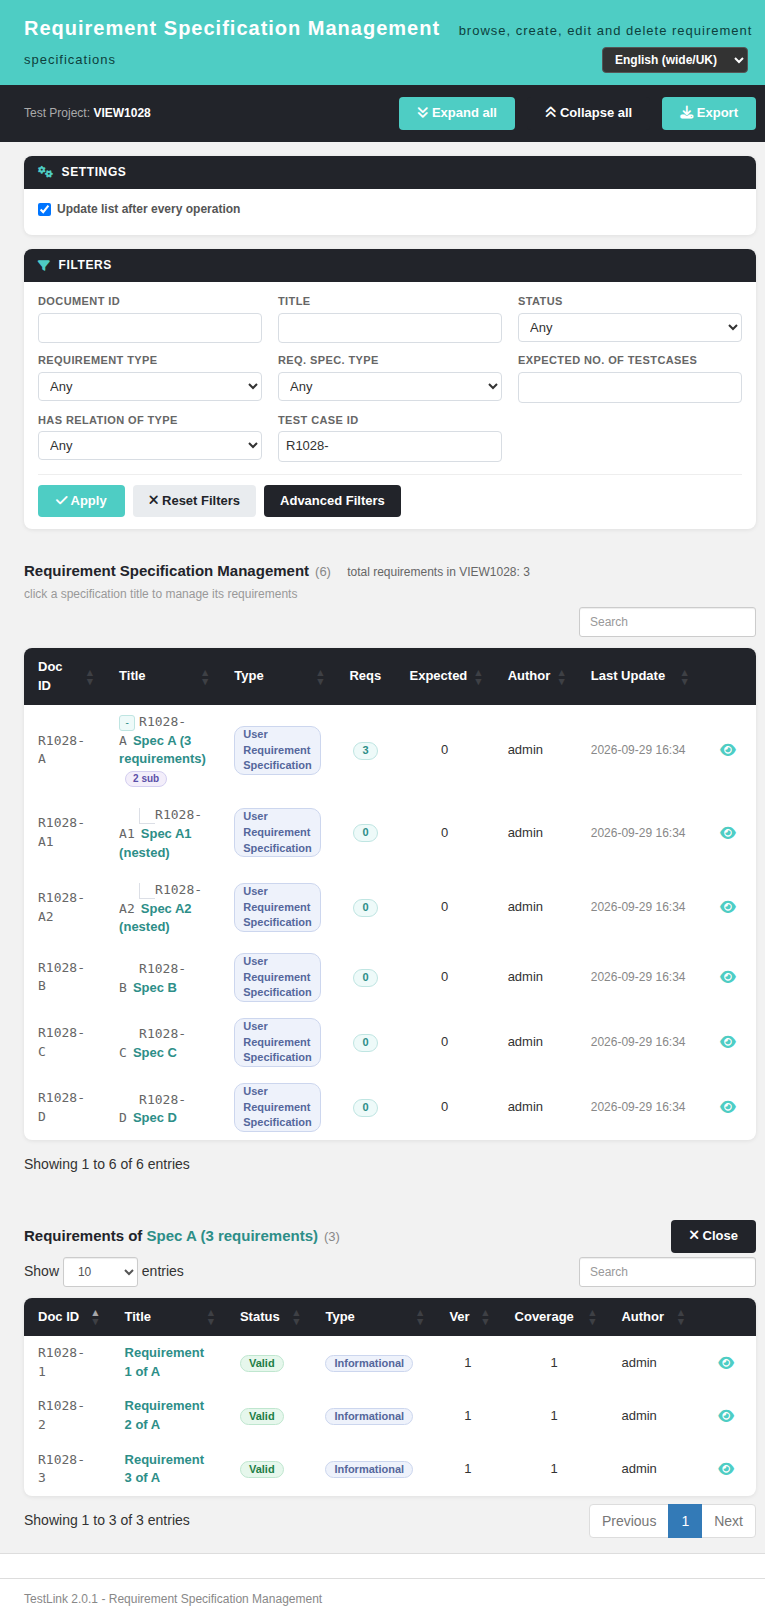
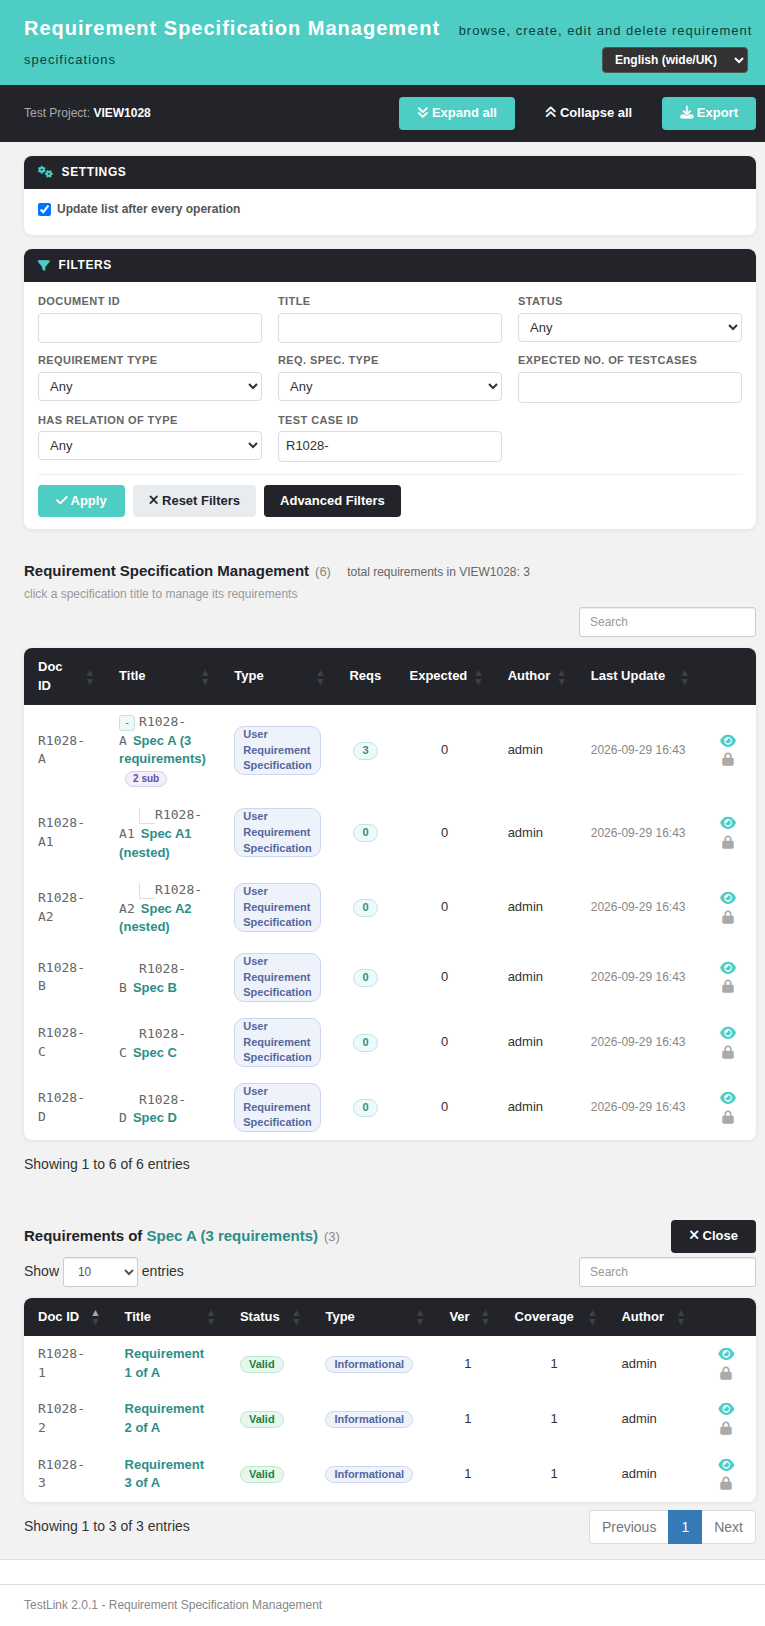
fix(#1028): code-review pass - keep the read-only signal, kill the hover underline, commit suite 1028
- .view-btn: text-decoration:none (Bootstrap underlines a:focus/a:hover)
- new readOnlyMark(): a fa-lock + rs.viewOnly marker next to the eye when
  canView && !canManage, so a plain viewer keeps the read-only cue the old
  decorative fa-eye gave
- docs/wiki/CHANGELOG: corrected file:line ranges, documented that the
  fa-eye-slash branch is defensive (options itself needs canView())
- test: suite 1028 committed (18 cases, all PASS)

Refs #1028

diff --git a/gui/templates/requirements/reqSpecMgmt.html b/gui/templates/requirements/reqSpecMgmt.html
@@ -56,9 +56,10 @@ table.dataTable tbody tr.spec-child-row td:first-child { border-left: 3px solid 
 .muted { color: #aaa; }
 .updated-cell { color: #888; font-size: 12px; white-space: nowrap; }
 .edit-btn { background: none; border: none; color: #2d8e88; cursor: pointer; font-size: 14px; padding: 2px 6px; }
-/* Refs #1028 - deep link to the full spec/requirement detail screen. */
-.view-btn { background: none; border: none; color: #4ECDC4; cursor: pointer; font-size: 14px; padding: 2px 6px; }
-.view-btn:hover { color: #2d8e88; }
+/* Refs #1028 - deep link to the full spec/requirement detail screen.
+   text-decoration:none keeps Bootstrap's global a:hover underline off the icon. */
+.view-btn { background: none; border: none; color: #4ECDC4; cursor: pointer; font-size: 14px; padding: 2px 6px; text-decoration: none; }
+.view-btn:hover { color: #2d8e88; text-decoration: none; }
 .del-btn { background: none; border: none; color: #e6605e; cursor: pointer; font-size: 15px; padding: 2px 6px; }
 .del-btn:hover { color: #c53f3d; }
 .empty { background: #fff; border-radius: 8px; padding: 26px; text-align: center; color: #888; font-size: 13px; box-shadow: 0 1px 4px rgba(0,0,0,.08); }
@@ -844,10 +845,17 @@ function renderSpecs(items) {
         '" onclick="confirmDeleteSpec(' + s.id + ')">' +
         '<i class="fas fa-minus-circle"></i></button>';
     } else if (!canView) {
-      // No view right either: keep the legacy "read only" marker.
+      // No view right either: keep the legacy "read only" marker. (Defensive -
+      // ?action=options itself needs canView(), so this branch is not reachable
+      // while rows are rendered; it exists so a future rights combination that
+      // renders rows without rights.view can never show a dead link.)
       action = '<span class="muted"><i class="fas fa-eye-slash" title="' +
                esc(TLi18n.t('rs.viewOnly')) + '"></i></span>';
     }
+    // The eye link is offered to a viewer WITHOUT mgt_modify_req too (legacy
+    // gated both deep links on mgt_view_req), so the pre-existing "read only"
+    // signal must survive next to it.
+    if (canView && !canManage) { action += readOnlyMark(); }
 
     // Refs #1025: while filtering, the Reqs cell shows the number of MATCHING
     // requirements of the spec subtree (what the legacy tree counted), with the
@@ -926,6 +934,14 @@ function viewReqBtn(id) {
          '" href="/gui/templates/requirements/reqView.html?id=' +
          encodeURIComponent(id) + '&tproject_id=' + encodeURIComponent(tprojectId) +
          '" target="_self"><i class="fas fa-eye"></i></a>';
+}
+
+// Refs #1028 - legacy offered the detail screens to plain viewers too, so a
+// viewer WITHOUT mgt_modify_req keeps an explicit "read only" signal in the
+// action cell instead of silently losing the one the old `fa-eye` marker gave.
+function readOnlyMark() {
+  return '<span class="muted"><i class="fas fa-lock" title="' +
+         esc(TLi18n.t('rs.viewOnly')) + '"></i></span>';
 }
 
 function selectSpec(id) {
@@ -1007,6 +1023,8 @@ function renderReqs(items) {
     } else if (!canView) {
       action = '<span class="muted"><i class="fas fa-eye-slash"></i></span>';
     }
+    // keep the pre-existing "read only" signal next to the eye (see renderSpecs)
+    if (canView && !canManage) { action += readOnlyMark(); }
     var scopePlain = String(q.scope == null ? '' : q.scope).replace(/<[^>]*>/g, ' ').replace(/\s+/g,' ').trim();
 
     return [

diff --git a/tmp/TLU_Test_Cases.md b/tmp/TLU_Test_Cases.md
@@ -569,3 +569,72 @@ class at `:17`; also unregistered, and its line 2 says
   `BigInt` form on none.
 - The `Not Run` / `Passed` / `Failed` / `Blocked` list is read from the BFF `status_set` (`array_keys($statusSetForDisplay)`) rather than hardcoded, so an install that adds a custom exec status gets it in the breakdown without a code change — same as the legacy `foreach ($statusSetForDisplay …)`.
 - The entire assembled line is escaped with `esc()`; the previous code escaped only the label, and the labels come from user-editable `lang` strings.
+
+---
+
+## Suite 1028 — Task, Issue #1028: spec / requirement detail deep links from `reqSpecMgmt` (gap vs legacy `REQ_SPEC_MGMT` / `REQ_MGMT` tree-node hrefs)
+
+**Precondition**
+
+- App `http://localhost:8082`, admin `admin/admin` (all rights) and read-only user
+  `ro1028readonly` / `admin` (custom role 10 = `mgt_view_req` only, no `mgt_modify_req`).
+- Fixture: `php tmp/fixtures_1028.php` → tproject `VIEW1028` (id 1, prefix R1028),
+  specs A(2)/A1(10)/A2(12)/B(4)/C(6)/D(8), requirements R1028-1(14)/-2(16)/-3(18).
+- Entry point: `http://localhost:8082/gui/templates/requirements/reqSpecMgmt.html?tproject_id=1`
+- Legacy reference exercised: `gui/javascript/testlink_library.js:1213-1244`
+  (`REQ_SPEC_MGMT` → `reqSpecView.php`, `REQ_MGMT` → `reqView.php`), node hrefs built by
+  `lib/functions/treeMenu.inc.php:2086-2110`.
+
+**Steps / expected / actual**
+
+| # | Step | Expected | Actual | Result |
+|---|---|---|---|---|
+| 1 | open `reqSpecMgmt.html?tproject_id=1` as `admin` and read the **pre-fix** DOM of every spec row | the only anchor per row is the inline expander `selectSpec(id)` | `links: ["selectSpec(2) -> javascript:void(0)"]`; `innerHTML.indexOf('reqSpecView.html') === -1`, `indexOf('reqView.html') === -1` — **gap reproduced** | PASS (gap) |
+| 2 | same, **post-fix**, as `admin` | one teal eye link per spec row pointing at the full spec detail | 6/6 rows → `/gui/templates/requirements/reqSpecView.html?id=<2,10,12,4,6,8>&tproject_id=1`, `canManage=true, canView=true` | PASS |
+| 3 | click the spec title (expander) | the inline "Requirements of …" panel still works — the new link does not replace it | `selectSpec(2)` reveals the panel, 3 requirement rows load | PASS |
+| 4 | select spec A, read the **requirement** rows | one teal eye link per requirement row pointing at the full requirement detail | 3/3 rows → `/gui/templates/requirements/reqView.html?id=<14,16,18>&tproject_id=1` | PASS |
+| 5 | **click** the eye on spec row A | the full SPEC DETAIL screen opens: header, scope, type, author/editor, custom fields, attachments, revision history, Freeze / Create Revision, requirement list | lands on `reqSpecView.html?id=2&tproject_id=1`, `document.title = "Requirement Specification Viewer"`, toolbar shows *Compare revisions / Freeze / Create revision* | PASS |
+| 6 | **click** the eye on requirement row `R1028-1` | the full REQUIREMENT DETAIL screen opens: versions, per-revision attributes, cfields, attachments, linked test cases, relations, monitoring | lands on `reqView.html?id=14&tproject_id=1`, `document.title = "Requirement Viewer"`, body shows `IDENTIFIER R1028-1`, `Version v1r1`, `Freeze this version`, `Start monitoring`, `New Revision` | PASS |
+| 7 | the detail screen's own **"Open in Spec Management"** round trip | the eye link did not create a one-way dead end | `reqSpecView.html` exposes a link back to `reqSpecMgmt.html?tproject_id=1` | PASS |
+| 8 | log in as `ro1028readonly` (`mgt_view_req` only) | the eye links are STILL offered (legacy gated them on the same right) while edit/delete/new-child stay hidden, **and the pre-existing "read only" signal survives next to the eye** | `canManage=false, canView=true`; `specView=6`, `reqView=3`, `editBtns=0`, `delBtns=0`, `fa-lock=6` spec / `3` requirement with tooltip `View only - no modify rights` | PASS |
+| 9 | as `ro1028readonly`, click the spec eye | the spec detail is reachable for a read-only user | `reqSpecView.html?id=2&tproject_id=1` renders, title `Requirement Specification Viewer`, no write-only toolbar | PASS |
+| 10 | rights wiring: confirm the gate uses the BFF, not a hardcoded flag | `?action=options` already returns `rights.view`; no BFF change needed | `api/reqspec/index.php:571-574` → `'view' => canView(...)`; `canView = !!r.rights.view` in `loadOptions()`; `git diff --stat api/` = empty | PASS |
+| 11 | log in as `ro1028norights` (`<no rights>` role 3) — the branch that must fall back to a non-affordance marker | no dead eye link is rendered; either the row is absent or the cell shows `fa-eye-slash` + `rs.viewOnly` | `canView=false, canManage=false` and the BFF itself returns **0 spec rows** (`specRows=0`, `viewBtn=0`, `eyeSlash=0`) — the marker branch is therefore **defensive, not reachable** with this dataset, and the important part holds: **no dead link is rendered**. Documented as such rather than claimed as an observed render. | PASS (defensive) |
+| 12 | i18n: both new tooltips present in **every** locale bundle, every bundle still valid JSON | 10/10 bundles, 2 keys each, no reformatting | `de,en,es,fr,it,ja,pt,ro,ru,zh` → all `OK`; `git diff --stat gui/templates/i18n/` = `10 files changed, 20 insertions(+)` | PASS |
+| 13 | tooltips are localized, not hardcoded | `TLi18n.t('rs.viewSpecDetail')` / `TLi18n.t('rs.viewReqDetail')` drive both `title` attributes | rendered title as admin = `Open specification detail (custom fields, attachments, revision history)` / `Open requirement detail (versions, test case links, relations, attachments)` | PASS |
+| 14 | no hardcoded user-facing string in the new code path | only ids/urls/icon classes in the new lines | `viewSpecBtn`/`viewReqBtn` build `href` + `title` only, both from `TLi18n.t(...)` | PASS |
+| 15 | `node --check` on the extracted inline `<script>` block | clean | *JS SYNTAX OK* (1 block extracted) | PASS |
+| 15a | Bootstrap global `a:focus, a:hover` must not underline the icon | `.view-btn` sets `text-decoration: none` | `getComputedStyle(a).textDecorationLine === "none"` at rest and in the CSS rule | PASS |
+| 16 | browser console across runs 2-9 | no errors, no warnings | *no console messages found* | PASS |
+| 17 | Event Viewer after the whole run | no new Error/Warning | `select id,log_level from events where log_level>0` → only `log_level=16` audit rows (`audit_login_succeeded`, `audit_testproject_created`, `audit_user_logout`); **no** `log_level<=2` row | PASS |
+
+**Notes.**
+
+- A code-review pass (ai/AGENTS.md rule 16) ran against commits `48c077954`/`a63af64b8`.
+  No BLOCKER. Two findings were applied and are covered above: `.view-btn` needed
+  `text-decoration: none` (Bootstrap underlines `a:hover`) and the read-only
+  `fa-lock` marker had to be kept next to the eye (test 8). Two further findings were
+  checked and are non-issues: the `action` string is never left empty or
+  double-built, because `canView()` = `mgt_view_req || mgt_modify_req` and
+  `canManage()` = `mgt_modify_req` (`api/reqspec/index.php:98-104`) make
+  `!canView && canManage` unreachable; and both ids are JSON numbers produced by
+  `intval($r['id'])` (`api/reqspec/index.php:736`, `:1092`), so the href cannot carry
+  injected markup. Server-side authorisation was re-measured as `ro1028norights`:
+  `options` 403, `spec_view` 403, `/view` 403, `freeze_spec` 403,
+  `create_revision` 403 — the client-side `rights.view` gate is a UX affordance only.
+- The `fa-eye-slash` fallback in the action cell is a **defensive** branch: with
+  `<no rights>` the BFF returns an empty spec list, so it cannot be observed live. It
+  exists so a future rights combination that renders rows without `rights.view` still
+  shows a marker instead of a dead link.
+- The port is deliberately **front-end only**: both detail screens and both BFF actions
+  (`api/reqspec` `spec_view` / `freeze_spec` / `create_revision`, `api/requirements` `/view`)
+  already existed and already accepted `?id=…&tproject_id=…`; the missing piece was the
+  entry point, exactly as the issue's SUGGESTED FIX describes.
+- The legacy JS passed `?item=req_spec&…&req_spec_id=…` / `?item=requirement&…&requirement_id=…`.
+  The modern detail screens already accept those aliases (`reqSpecView.html:309`,
+  `reqView.html:328`); the links use the canonical `id` form.
+- `tproject_id` is passed on purpose: without it the detail screen self-resolves the
+  project from the object, and the rights check there would not be scoped to the
+  project the user is looking at.
+- Screenshots: `docs/screenshots/issue-1028-before-no-view-links.png`,
+  `…-after-view-links.png`, `…-spec-detail-reached.png`, `…-readonly-view-links.png`.

diff --git a/docs/Task-Issue-1028-reqSpecMgmt-detail-deep-links.md b/docs/Task-Issue-1028-reqSpecMgmt-detail-deep-links.md
@@ -49,7 +49,7 @@ document.documentElement.innerHTML.indexOf('reqView.html')     === -1
 ```
 
 `reqSpecView.html` and `reqView.html` were **not missing** — they existed, already parsed
-`?id=…&tproject_id=…` (`reqSpecView.html:309-310`, `reqView.html:328-331`) and were already fed by
+`?id=…&tproject_id=…` (`reqSpecView.html:309-310`, `reqView.html:328-332`) and were already fed by
 the complete BFF actions `spec_view` / `freeze_spec` / `create_revision` and `/view`. The missing
 piece was only the **entry point**.
 
@@ -61,12 +61,12 @@ Pure front-end port; the BFF was not modified (`git diff --stat api/` is empty).
 
 | line | change |
 |---|---|
-| 59-62 | `.view-btn` — teal (`#4ECDC4`) icon-link style, the same visual language as the existing `.edit-btn` |
-| 455-458 | new `canView` flag, documented as the `mgt_view_req` mirror of the legacy gate |
-| 520 | `canView = !!r.rights.view;` in `loadOptions()` — the BFF already returned `rights.view` |
-| 898-919 | `viewSpecBtn(id)` / `viewReqBtn(id)` helpers |
-| 824-836 | spec row action cell: eye link prepended to new-child / edit / delete |
-| 975-988 | requirement row action cell: same treatment |
+| 60-62 | `.view-btn` — teal (`#4ECDC4`) icon-link style, the same visual language as the existing `.edit-btn` |
+| 458-460 | new `canView` flag, documented as the `mgt_view_req` mirror of the legacy gate |
+| 521 | `canView = !!r.rights.view;` in `loadOptions()` — the BFF already returned `rights.view` |
+| 920-947 | `viewSpecBtn(id)` / `viewReqBtn(id)` / `readOnlyMark()` helpers |
+| 836-858 | spec row action cell: eye link prepended to new-child / edit / delete |
+| 1015-1027 | requirement row action cell: same treatment |
 
 ```js
 function viewSpecBtn(id) {
@@ -93,8 +93,18 @@ Design decisions:
 - **`rights.view`, not `rights.manage`, is the gate** — legacy gated both deep links on
   `mgt_view_req`, so a read-only user still gets the detail screens (verified with a custom role 10
   holding `mgt_view_req` only: 6 spec + 3 requirement eye links, 0 edit, 0 delete).
-- A defensive `fa-eye-slash` marker (with the existing `rs.viewOnly` tooltip) replaces the old
-  decorative eye when neither `view` nor `manage` is granted, so no dead link can be rendered.
+- **The "read only" signal is preserved.** Because the eye is offered to plain viewers too, a
+  viewer *without* `mgt_modify_req` also gets a `fa-lock` marker carrying the existing
+  `rs.viewOnly` tooltip (`readOnlyMark()`, appended when `canView && !canManage`) — otherwise the
+  refactor would have silently dropped the only "you are read-only" cue the row used to give.
+- A defensive `fa-eye-slash` marker replaces the old decorative eye when neither `view` nor
+  `manage` is granted, so no dead link can ever be rendered. Note that this branch is **not
+  reachable** today: `?action=options` itself requires `canView()`
+  (`api/reqspec/index.php:122-126`, called from `needTprojectId()` at `:484`), so a session that
+  cannot read requirements gets a 403 from `options` and no rows are rendered at all. It is kept as
+  a safety net for future rights combinations, and labelled as defensive in the source.
+- `text-decoration: none` is set on `.view-btn` so Bootstrap's global `a:focus, a:hover`
+  underline does not strike through the icon.
 
 ## i18n
 
